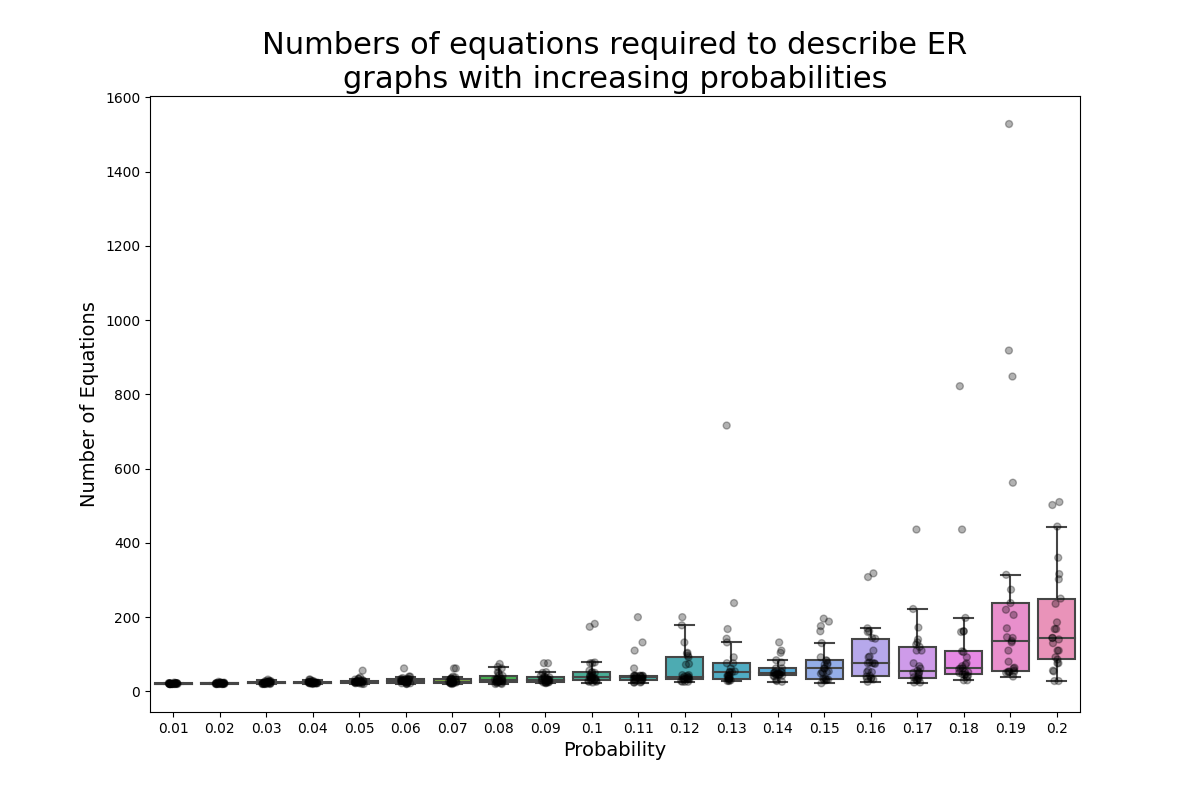
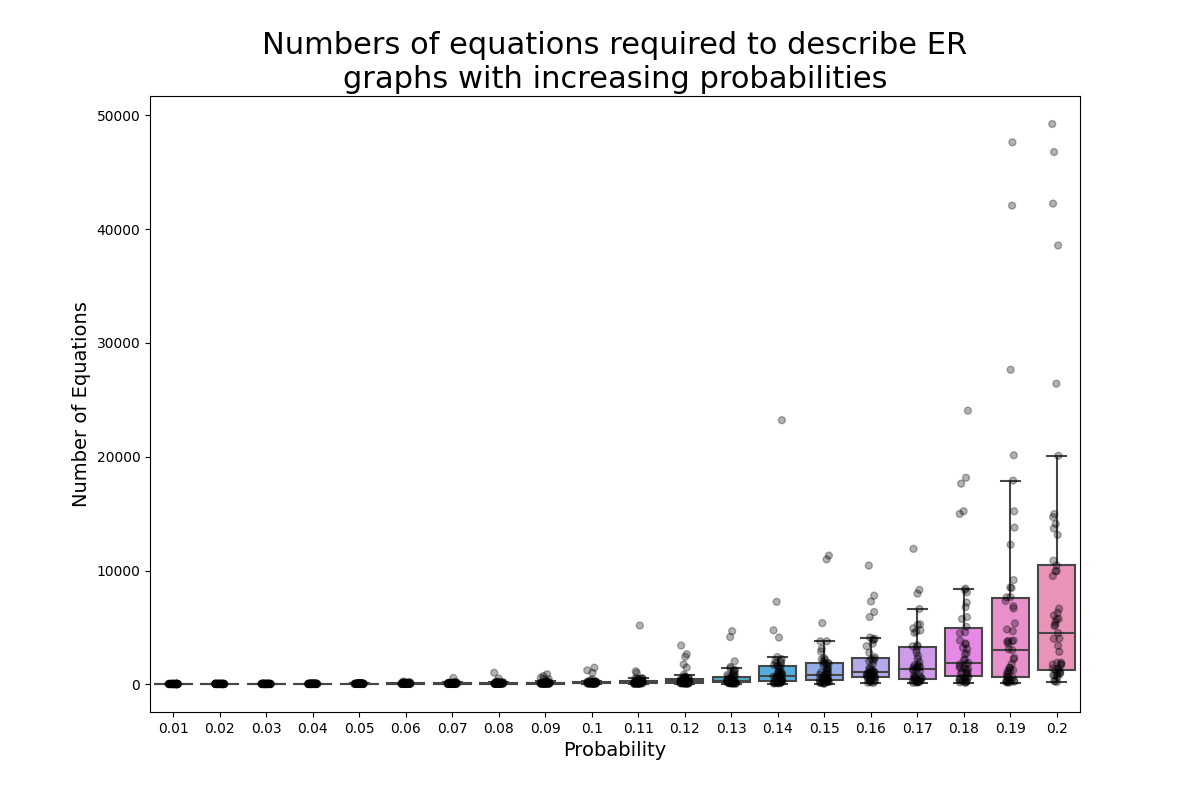
Minor notes adjustments and amendments

diff --git a/2022/03/46_08-03-22.md b/2022/03/46_08-03-22.md
@@ -3,7 +3,7 @@
 __Meeting 46__
 08-03-2022
 
-[< Previous](45_03-03-22.md) | [Next >](47_14-03-22.md)
+[< Previous](45_03-03-22.md) | [Next >](47_17-03-22.md)
 
 _Jess Enright,_
 _Ethan Kelly_
@@ -20,7 +20,7 @@ Jess gave Ethan the dates for the Scottish Combinatorics meeting (founded by Kit
 
 ## 2. Research
 
-Ethan has managed to begin experimenting with ER graphs - as an example, this plot shows box plots representing 50 experiments for each probability value from 0.01 to 0.15 in increments of 0.01 on ER graphs on 15 vertices.
+Ethan has managed to begin experimenting with ER graphs - as an example, this plot shows box plots representing 50 experiments for each probability value from 0.01 to 0.2 in increments of 0.01 on ER graphs on 15 vertices.
 
 ![](2022/03/img/myplot.png)
 
@@ -32,11 +32,11 @@ Ethan has several oustanding to-dos since the last meeting (as this was only two
 ## 3. Plan
 
 **Practical:**
-- [ ] (This week - continue from last week) ER Experiments
-- [ ] (This week) implement tests to ensure number of tuples produced for paths and cycles by code is what we'd expect from analytically derived expressions
+- [x] (This week - continue from last week) ER Experiments
+- [x] (This week) implement tests to ensure number of tuples produced for paths and cycles by code is what we'd expect from analytically derived expressions
 
 **Writing:**
-- [ ] (This week) Editing pass - address Jess' comments on section 3 of Overleaf doc
+- [x] (This week) Editing pass - address Jess' comments on section 3 of Overleaf doc
 - [ ] (This week, depending on how practical side goes) Write up approach to ER experiments as these are done
 - [ ] (Could require some thinking, maybe a while) Go back to 3rd criterion - rework because walks only works for paths
 

diff --git a/2022/03/47_17-03-22.md b/2022/03/47_17-03-22.md
@@ -1,7 +1,7 @@
 # PHD MEETING
 
 __Meeting 47__
-14-03-2022
+17-03-2022
 
 [< Previous](46_08-03-22.md) | [Next >]()
 
@@ -13,6 +13,9 @@ _Ethan Kelly_
 
 
 ## 2. Research
+
+Ask Jess to review amended proofs and added corollary:
+![](Lemma3.2.png)
 
 
 ## 3. Plan
